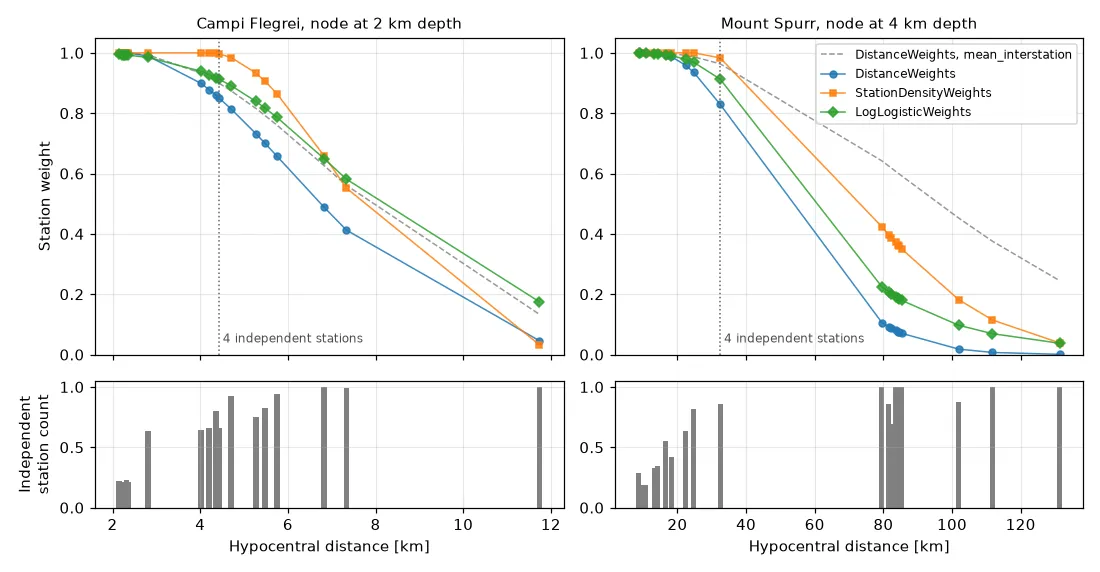
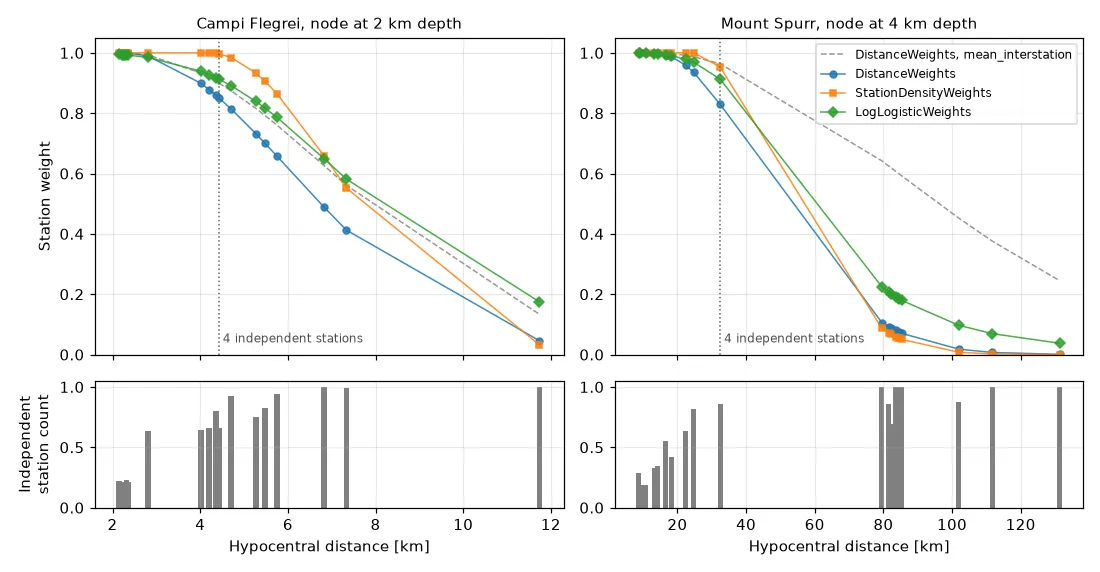
Station weights: cap the taper of the station density weights
A gap in the network, e.g. between local and regional stations, can put
the taper_stations far away and stretch the Gaussian taper across the
gap. max_taper_ratio caps its standard deviation at the plateau distance
(1.0 by default); with it, the weight halves at 2.2 times the plateau
distance, where the mean phase confidence of small events halves on the
playground examples.

Calibrated on the playground and the synthetic benchmark (caps 0.75 to
1.5 and none): 12-20% more detections than without the cap, 59 more
with at least 8 picks at Mount Spurr, mean synthetic recall at 2 false
detections per hour 0.78 against 0.71. The docs show the principle in a
figure.

diff --git a/src/qseek/station_weights.py b/src/qseek/station_weights.py
@@ -203,12 +203,14 @@ def weights_plateau_gaussian(
     independence: np.ndarray,
     plateau_stations: float = 3.0,
     taper_stations: float = 8.0,
+    max_taper_ratio: float | None = 1.0,
 ) -> np.ndarray:
     """Gaussian taper beyond a plateau of the closest independent stations.
 
     The plateau ends where the closest stations add up to `plateau_stations`
     independent stations. The Gaussian taper starts there; its standard deviation
-    is half the distance at which they add up to `taper_stations`.
+    is half the distance at which they add up to `taper_stations`, at most
+    `max_taper_ratio` times the plateau distance.
 
     Args:
         distances: Array of shape (n_nodes, n_stations) with node-station distances
@@ -217,6 +219,8 @@ def weights_plateau_gaussian(
             count of each station.
         plateau_stations: Independent stations of the plateau.
         taper_stations: Independent stations that set the taper width.
+        max_taper_ratio: Maximum standard deviation of the taper in units of the
+            plateau distance. If None, the taper width is not limited.
 
     Returns:
         Array of shape (n_nodes, n_stations) with weights between 0 and 1.
@@ -224,6 +228,8 @@ def weights_plateau_gaussian(
     plateau = independent_stations_distance(distances, independence, plateau_stations)
     taper = independent_stations_distance(distances, independence, taper_stations)
     sigma = taper / 2
+    if max_taper_ratio is not None:
+        sigma = np.minimum(sigma, max_taper_ratio * np.maximum(plateau, 1.0))
 
     weights = np.exp(-((distances - plateau) ** 2) / (2 * sigma**2))
     weights[distances <= plateau] = 1.0
@@ -516,6 +522,13 @@ class StationDensityWeights(StationWeights):
         " closest stations add up to this number. If the network has fewer"
         " independent stations, the most distant station sets the width.",
     )
+    max_taper_ratio: PositiveFloat | None = Field(
+        default=1.0,
+        description="Maximum standard deviation of the Gaussian taper, in units of"
+        " the plateau distance of the node. It keeps the taper short when a gap in"
+        " the network puts the `taper_stations` far away, e.g. between local and"
+        " regional stations. If `null`, the taper width is not limited.",
+    )
 
     def prepare(self, stations: StationInventory, octree: Octree) -> None:
         super().prepare(stations, octree)
@@ -532,6 +545,7 @@ class StationDensityWeights(StationWeights):
             self.get_independence(station_indices),
             plateau_stations=self.plateau_stations,
             taper_stations=self.taper_stations,
+            max_taper_ratio=self.max_taper_ratio,
         )
 
 

diff --git a/test/test_station_weights.py b/test/test_station_weights.py
@@ -324,7 +324,11 @@ def test_independent_stations_distance():
 def test_weights_plateau_gaussian():
     distances = np.arange(1, 21, dtype=float)[np.newaxis, :] * KM
     weights = weights_plateau_gaussian(
-        distances, np.ones(20), plateau_stations=4.0, taper_stations=12.0
+        distances,
+        np.ones(20),
+        plateau_stations=4.0,
+        taper_stations=12.0,
+        max_taper_ratio=None,
     )
     # Gaussian centered at the plateau distance, sigma half the taper distance
     plateau, sigma = 4 * KM, 12 * KM / 2
@@ -342,6 +346,29 @@ def test_weights_plateau_gaussian():
     np.testing.assert_equal(sorted_weights[:, :4], 1.0)
     assert np.all(sorted_weights[:, 4] < 1.0)
     assert np.all(np.diff(sorted_weights[:, 4:], axis=1) <= 0.0)
+
+
+def test_weights_plateau_gaussian_max_taper_ratio():
+    # A gap: three close stations, then distant stations
+    distances = np.array([[1.0, 2.0, 3.0, 50.0, 60.0, 70.0, 80.0]]) * KM
+    plateau, taper = 3 * KM, 70 * KM
+    uncapped = weights_plateau_gaussian(
+        distances, np.ones(7), 3.0, 6.0, max_taper_ratio=None
+    )
+    capped = weights_plateau_gaussian(distances, np.ones(7), 3.0, 6.0)
+    # The cap limits sigma to the plateau distance
+    for weights, sigma in ((uncapped, taper / 2), (capped, plateau)):
+        expected = np.exp(-((distances - plateau) ** 2) / (2 * sigma**2))
+        expected[distances <= plateau] = 1.0
+        np.testing.assert_allclose(weights, expected, rtol=1e-6)
+    assert np.all(capped[0, 3:] < uncapped[0, 3:])
+
+    # Without a gap the cap does not bind
+    distances = np.arange(1, 21, dtype=float)[np.newaxis, :] * KM
+    np.testing.assert_allclose(
+        weights_plateau_gaussian(distances, np.ones(20), 4.0, 8.0),
+        weights_plateau_gaussian(distances, np.ones(20), 4.0, 8.0, None),
+    )
 
 
 def test_weights_log_logistic():
@@ -465,7 +492,7 @@ def test_station_weights_config():
 
     for model in (
         DistanceWeights(required_closest_stations=6),
-        StationDensityWeights(plateau_stations=3.0),
+        StationDensityWeights(plateau_stations=3.0, max_taper_ratio=None),
         LogLogisticWeights(),
     ):
         config = {"station_weights": model.model_dump(mode="json")}

diff --git a/docs/configuration/station-weights.md b/docs/configuration/station-weights.md
@@ -11,7 +11,7 @@ Station weights decide how much each station contributes to the stack of a node.
 | Station weights | Full weight | Taper |
 | --- | --- | --- |
 | [`DistanceWeights`](#distance-weights) (default) | The 4 closest stations | Gaussian, 6 times the distance between neighboring stations |
-| [`StationDensityWeights`](#station-density-weights) | The closest 3 independent stations | Gaussian, from the distance of the closest 8 independent stations |
+| [`StationDensityWeights`](#station-density-weights) | The closest 3 independent stations | Gaussian, from the distance of the closest 8 independent stations, at most as wide as the plateau |
 | [`LogLogisticWeights`](#log-logistic-weights) | The closest 4 independent stations | Log-logistic, half weight at 1.8 times the distance of the plateau |
 
 `station_weights` takes one of them. With `null`, all stations get the same weight.
@@ -46,15 +46,15 @@ The three examples of the [playground](../getting-started/playground.md), search
 | --- | --- | --- | --- | --- | --- | --- |
 | Campi Flegrei, 1 day, 18 stations | `DistanceWeights`, `"mean_interstation"` | 732 | 521 | 0.284 s | 45 / 45 | 241 m |
 | | `DistanceWeights` | 750 | 525 | 0.286 s | 45 / 45 | 238 m |
-| | `StationDensityWeights` | 852 | 524 | 0.278 s | 45 / 45 | 216 m |
+| | `StationDensityWeights` | 954 | 524 | 0.282 s | 45 / 45 | 216 m |
 | | `LogLogisticWeights` | 800 | 520 | 0.286 s | 45 / 45 | 229 m |
 | Campi Flegrei, 10 days, 19 stations | `DistanceWeights`, `"mean_interstation"` | 6379 | 3750 | 0.278 s | 209 / 211 | 280 m |
 | | `DistanceWeights` | 6614 | 3772 | 0.280 s | 209 / 211 | 293 m |
-| | `StationDensityWeights` | 7198 | 3791 | 0.275 s | 209 / 211 | 294 m |
+| | `StationDensityWeights` | 8189 | 3799 | 0.278 s | 210 / 211 | 295 m |
 | | `LogLogisticWeights` | 7092 | 3800 | 0.284 s | 210 / 211 | 332 m |
 | Mount Spurr, 3 days, 10 local and 10 regional stations | `DistanceWeights`, `"mean_interstation"` | 1758 | 1046 | 0.349 s | 228 / 234 | 416 m |
 | | `DistanceWeights` | 2210 | 1070 | 0.318 s | 230 / 234 | 348 m |
-| | `StationDensityWeights` | 2046 | 1081 | 0.343 s | 228 / 234 | 400 m |
+| | `StationDensityWeights` | 2457 | 1140 | 0.338 s | 229 / 234 | 409 m |
 | | `LogLogisticWeights` | 2226 | 1127 | 0.364 s | 230 / 234 | 416 m |
 
 At Mount Spurr, the taper over twice the mean interstation distance, 166 km, keeps the regional stations 80 km to 130 km away at weights of 0.25 to 0.65. They rarely record the small events of the swarm. The default taper of 74 km, 6 times the 12.3 km between neighboring stations, finds 26% more detections and moves the epicenters 67 m closer to the catalog. On the dense Campi Flegrei network, the two tapers are 9.0 km and 11.1 km and give nearly the same detections.
@@ -65,7 +65,7 @@ A synthetic benchmark tests the station weights on 6 hours of phase confidences 
 | --- | --- | --- | --- | --- | --- |
 | `DistanceWeights`, `"mean_interstation"` | 0.65 | 0.23 | 1.00 | 0.76 | 0 m |
 | `DistanceWeights` | 0.60 | 0.38 | 1.00 | 0.78 | −1 m to 4 m |
-| `StationDensityWeights` | 0.74 | 0.32 | 1.00 | 0.79 | 0 m to 2 m |
+| `StationDensityWeights` | 0.86 | 0.38 | 1.00 | 0.86 | −1 m to 5 m |
 | `LogLogisticWeights` | 0.80 | 0.38 | 1.00 | 0.78 | −1 m to 4 m |
 
 The station weights hardly change the location of an event once it is detected. They change which events the stack detects.
@@ -92,6 +92,15 @@ print(json_example(DistanceWeights()))
 ## Station density weights
 
 The closest stations of a node get full weight until they add up to `plateau_stations` independent stations, 3 by default. Beyond this plateau distance, a Gaussian taper decays; its standard deviation is half the distance at which the closest stations add up to `taper_stations`, 8 by default. When the network has fewer independent stations than `taper_stations`, the most distant station sets the width.
+
+A gap in the network can put the `taper_stations` far away. At Mount Spurr, the ten local stations within 32 km count as 4.6 independent stations; the closest stations add up to 8 only among the regional stations beyond 79 km. The taper would then reach across the gap and keep the regional stations at weights of up to 0.43. `max_taper_ratio` caps the standard deviation of the taper at the plateau distance, 1.0 by default. Without a gap the cap rarely binds: on Campi Flegrei the standard deviation is 0.77 times the plateau distance (median over the nodes), and the cap binds at 12% of the nodes. With a standard deviation of one plateau distance, the weight is 0.5 at 2.2 times the plateau distance, where the mean phase confidence of small events halves on the playground examples.
+
+![Taper cap](../images/station-weights-taper-cap.webp)
+/// caption
+The cap of the taper on two nodes of the playground examples. Top: the closest stations add up to independent stations; $d_p$ marks 3 independent stations, the plateau, $d_8$ marks 8, which sets the taper width $\sigma = d_8 / 2$. Bottom: the station weights without the cap (orange) and with `max_taper_ratio` 1.0 (green). Left: on Campi Flegrei, without a gap, the cap does not bind. Right: at Mount Spurr, $d_8$ lies beyond the gap between the local and the regional stations; the cap halves the taper width, from 41.8 km to 24.8 km, and lowers the weights of the regional stations to 0.09 and less.
+///
+
+On the playground, the cap of 1.0 finds 12% and 14% more detections on Campi Flegrei (1 and 10 days) and 20% more at Mount Spurr than no cap, with 59 more detections with at least 8 picks at Mount Spurr. A cap of 0.75 raises the residuals on Campi Flegrei, caps of 1.25 and 1.5 move the epicenters at Mount Spurr farther from the catalog.
 
 The independent station counts depend on the available stations. When a station has no data in a window, Qseek counts the remaining stations.
 
